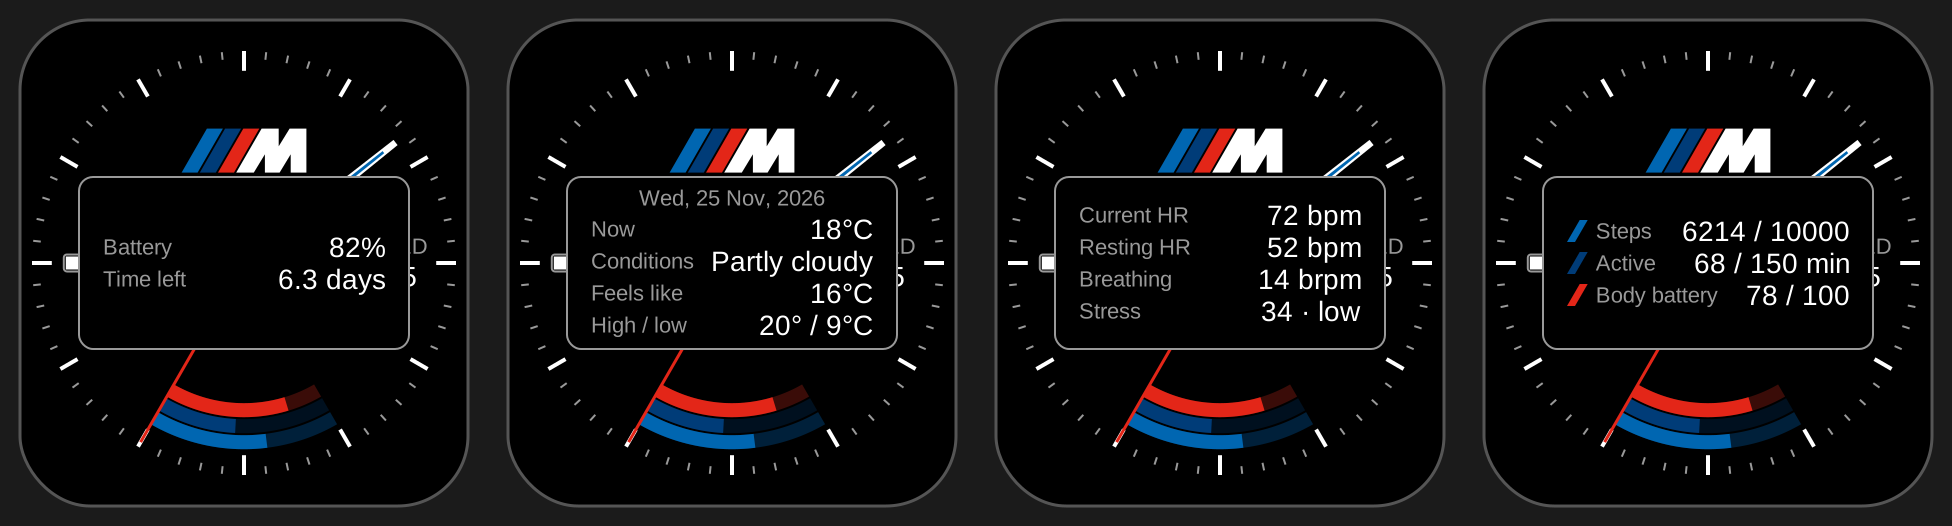
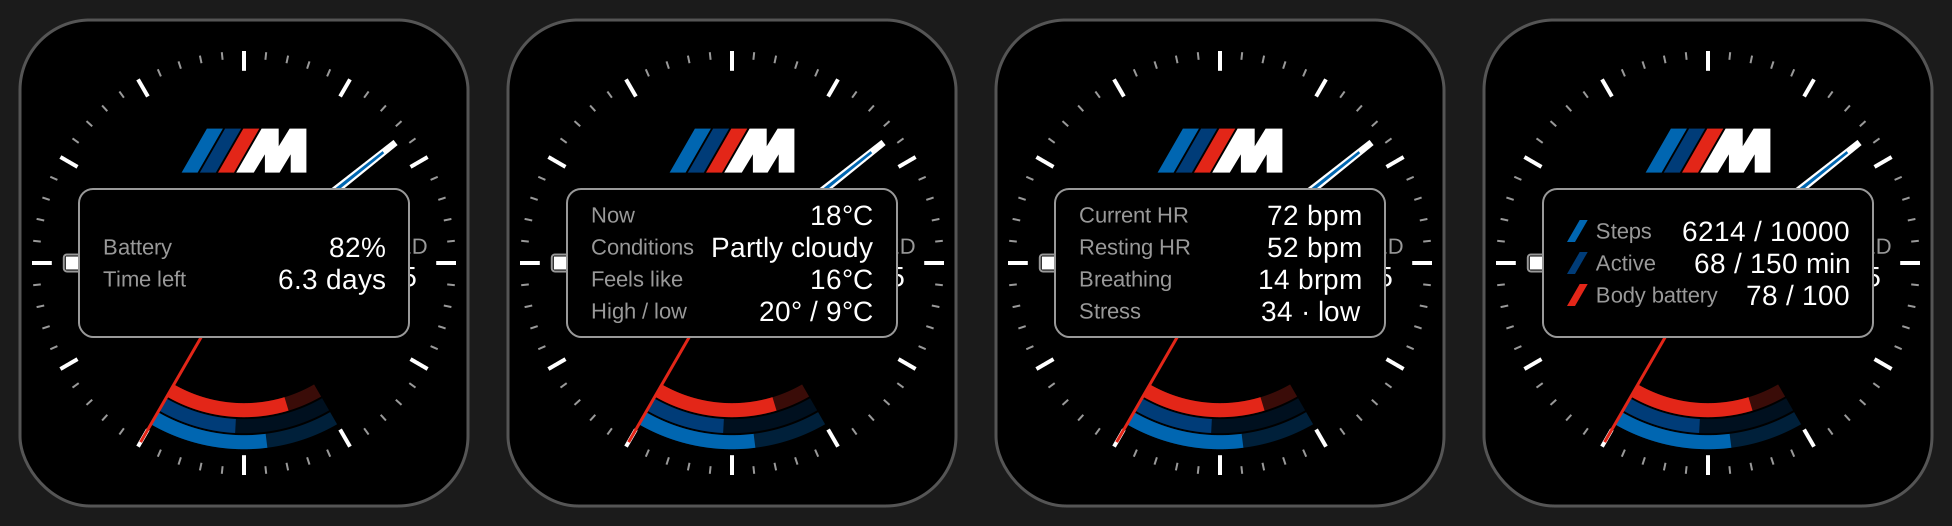
Cards: drop the date line from the weather card (it is on the dial) and shorten every card to fit four rows
Claude-Session: https://claude.ai/code/session_01CEiR5mX4CwQUtKoZKTxSUA

diff --git a/tools/wireframes.py b/tools/wireframes.py
@@ -60,7 +60,7 @@ BATT_W, BATT_H, BATT_R, BATT_TERM_W, BATT_TERM_H, BATT_PAD = (num("BATT_W"), num
                                                                 num("BATT_TERM_W"), num("BATT_TERM_H"),
                                                                 num("BATT_PAD"))
 CARD_W, CARD_H, CARD_R, CARD_PAD = num("CARD_W"), num("CARD_H"), num("CARD_R"), num("CARD_PAD")
-CARD_LINE_GAP, CARD_ROW_PITCH = num("CARD_LINE_GAP"), num("CARD_ROW_PITCH")
+CARD_ROW_PITCH = num("CARD_ROW_PITCH")
 CARD_SWATCH_H, CARD_SWATCH_GAP = num("CARD_SWATCH_H"), num("CARD_SWATCH_GAP")
 WINDOW_DATE_DX = num("WINDOW_DATE_DX")
 TOUCH_R, TOUCH_ARC_ANGLE = num("TOUCH_R"), num("TOUCH_ARC_ANGLE")
@@ -187,26 +187,21 @@ def draw_battery_icon(s, x, y, pct):
 
 def draw_card(s, kind):
     """Mirror of Cards.drawCard(): a quick card over the dial, with example values. Every card is the
-    same size: rows of label (grey, left) and value (white, right), the weather card with the date above."""
+    same size: rows of label (grey, left) and value (white, right)."""
     ch = CARD_H
     left, top = CX - CARD_W / 2, CY - ch / 2
     s.add('<rect x="%.1f" y="%.1f" width="%d" height="%d" rx="%d" fill="%s" stroke="%s" stroke-width="2"/>'
           % (left, top, CARD_W, ch, CARD_R, BLACK, GREY))
     header, rows = {
         "battery": ("", [("Battery", "82%"), ("Time left", "6.3 days")]),
-        "weather": ("Wed, 25 Nov, 2026", [("Now", "18&#176;C"), ("Conditions", "Partly cloudy"),
+        "weather": ("", [("Now", "18&#176;C"), ("Conditions", "Partly cloudy"),
                                            ("Feels like", "16&#176;C"), ("High / low", "20&#176; / 9&#176;C")]),
         "hr": ("", [("Current HR", "72 bpm"), ("Resting HR", "52 bpm"), ("Breathing", "14 brpm"),
                           ("Stress", "34 &#183; low")]),
         "activity": ("", [("Steps", "6214 / 10000"), ("Active", "68 / 150 min"), ("Body battery", "78 / 100")]),
     }[kind]
-    hl, hv = FONT_PX["label"], FONT_PX["value"]           # line heights: the font sizes (getFontHeight)
-    header_h = hl + CARD_LINE_GAP if header else 0
-    total = header_h + (len(rows) - 1) * CARD_ROW_PITCH + hv
-    y = top + (ch - total) / 2
-    if header:                                            # only the weather card: the date
-        s.text(CX, y + hl / 2, header, "label", GREY)
-    y += header_h
+    hv = FONT_PX["value"]                                 # line height: the font size (getFontHeight)
+    y = top + (ch - ((len(rows) - 1) * CARD_ROW_PITCH + hv)) / 2
     for i, (n, v) in enumerate(rows):
         ry = y + hv / 2 + i * CARD_ROW_PITCH
         lx = left + CARD_PAD

diff --git a/README.md b/README.md
@@ -32,8 +32,8 @@ simulator screenshots. They are generated from `source/Theme.mc` by
   drains (red below 20%). The temperature is not on the dial.
 - Quick cards. Hold the date, battery, roundel or rings and a card appears over the dial. Every
   card has the same size and layout: rows of grey label on the left and white value on the right,
-  every value with its unit (the weather card has the day and date above its rows).
-  - Date: `Now`, `Conditions`, `Feels like`, `High / low` (the weather, under `Wed, 25 Sep, 2026`).
+  every value with its unit.
+  - Date: the weather: `Now`, `Conditions`, `Feels like`, `High / low`.
   - Battery: `Battery` (%) and `Time left` (days), plus `Status: Charging` when charging.
   - Roundel: `Current HR` and `Resting HR` (bpm), `Breathing` (brpm) and `Stress` (a 0 to 100 score
     with its band: resting, low, medium, high).
